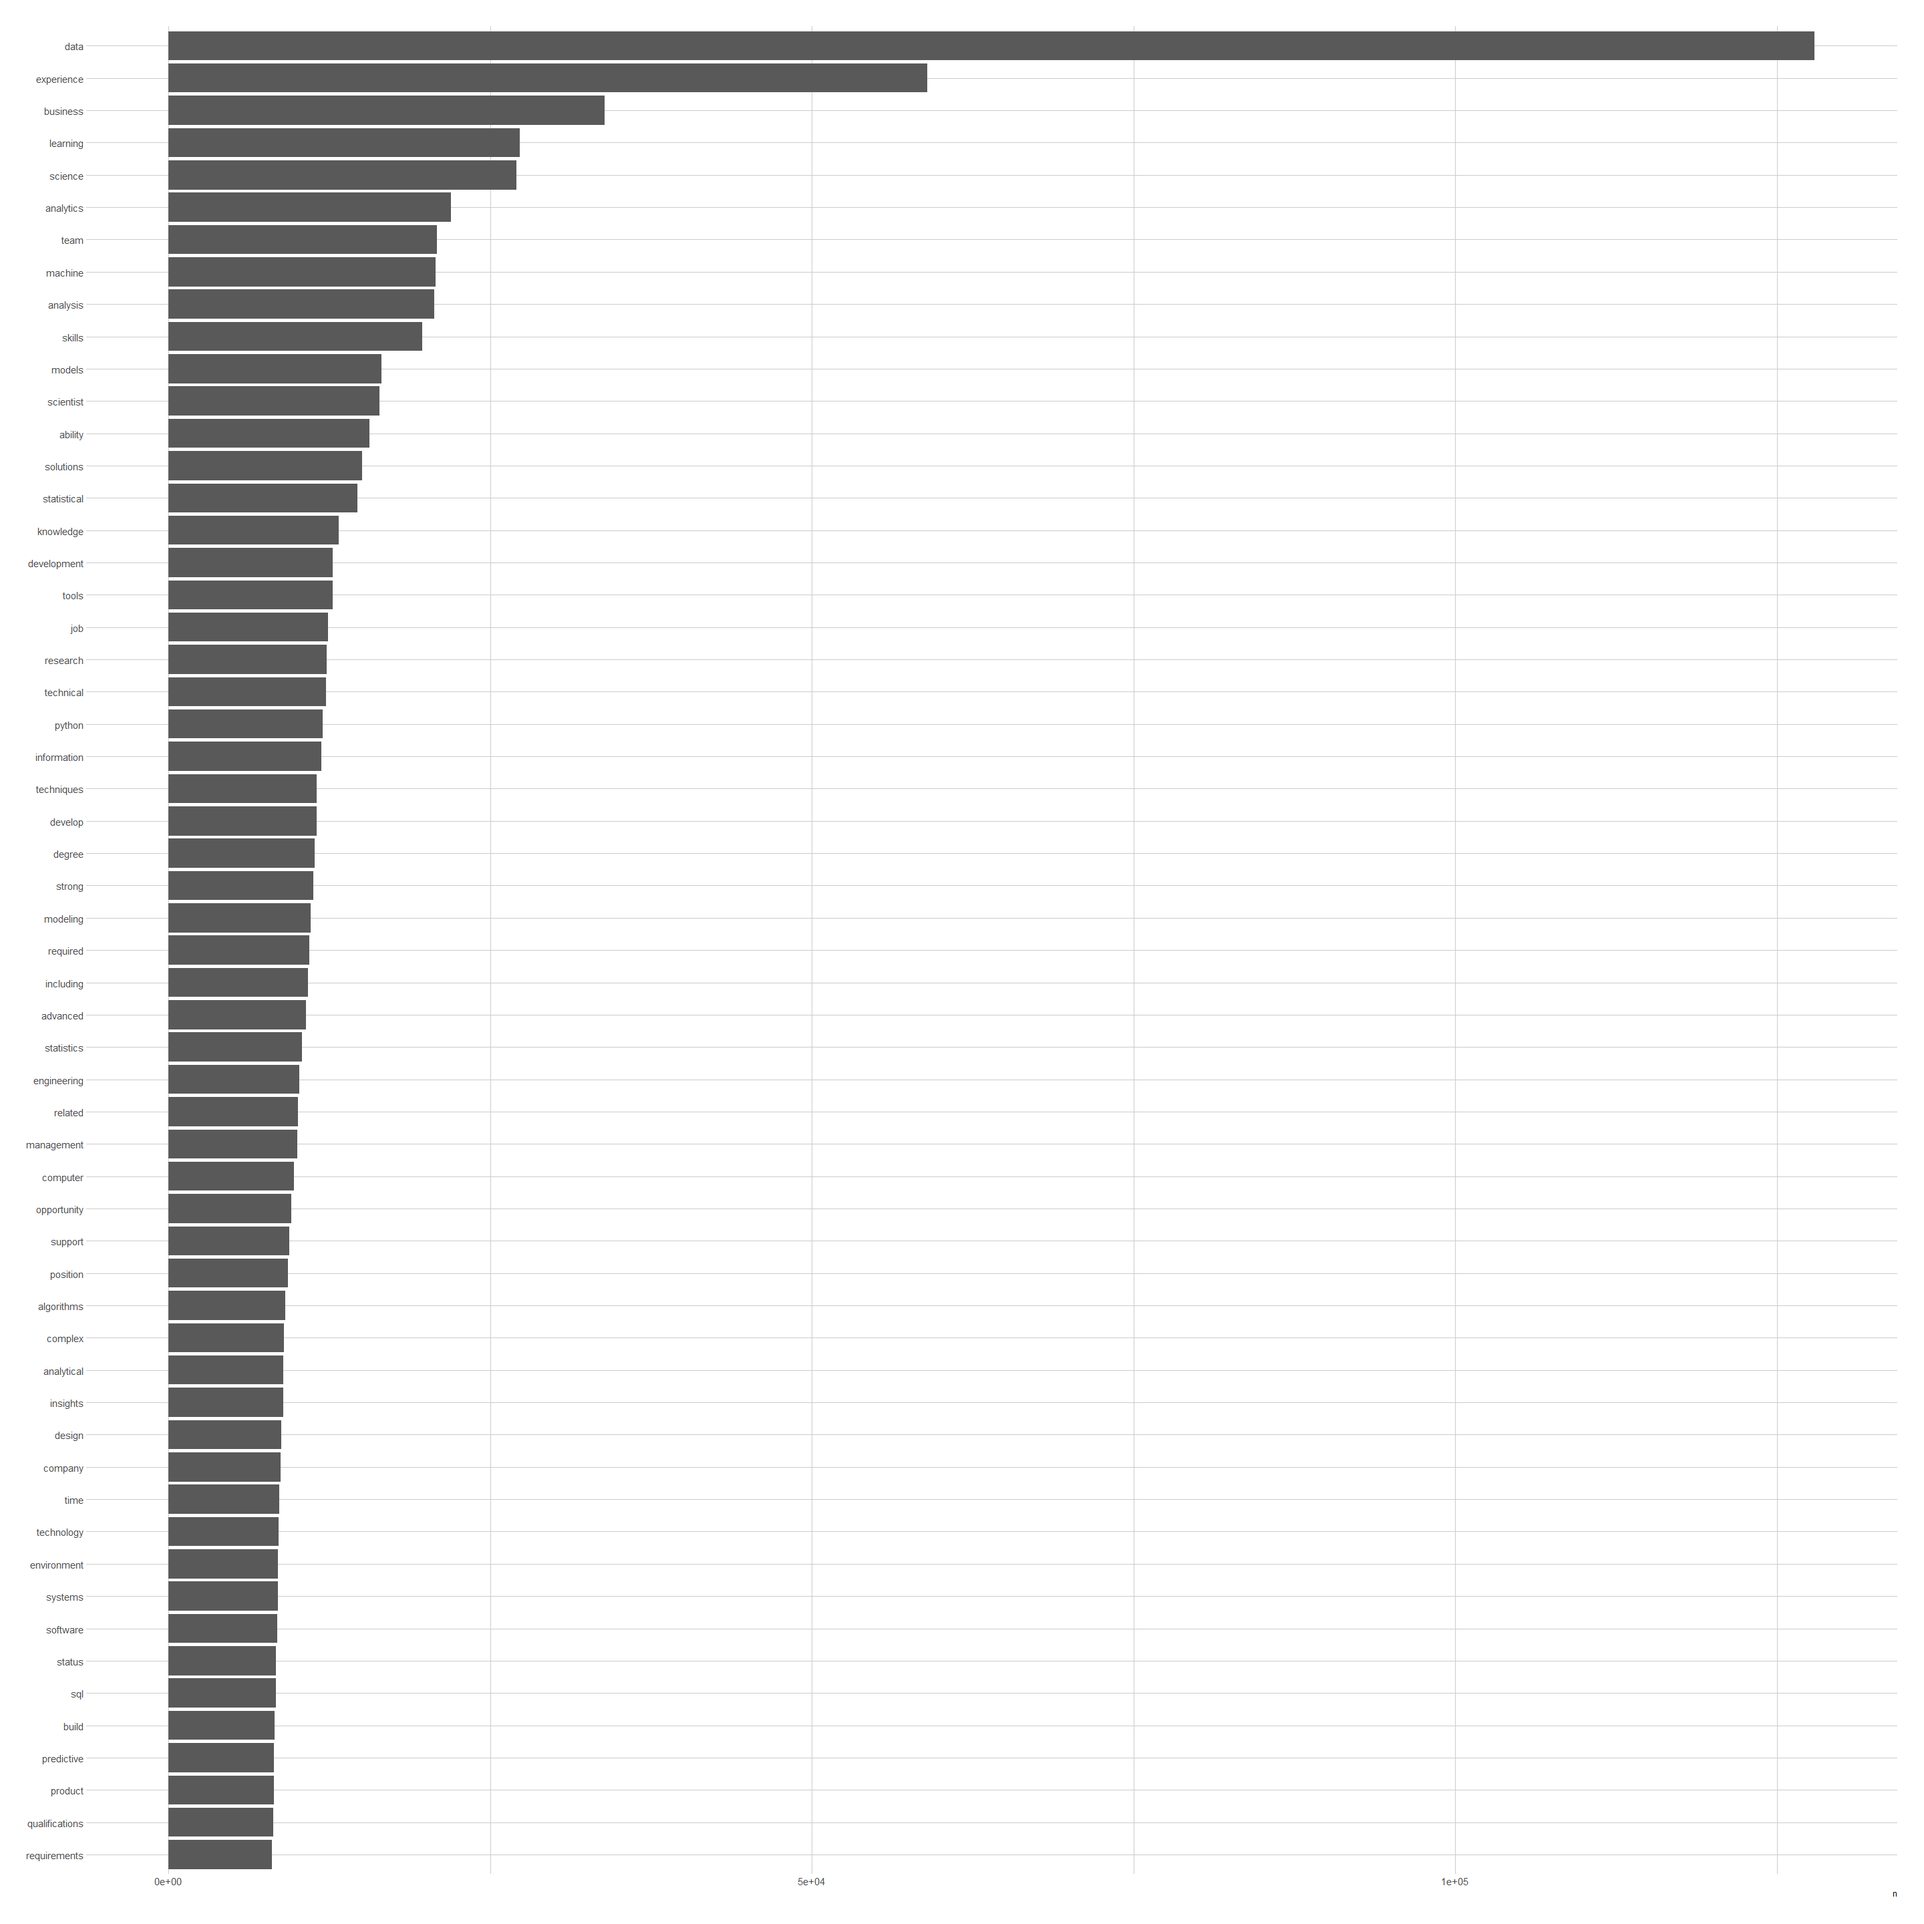
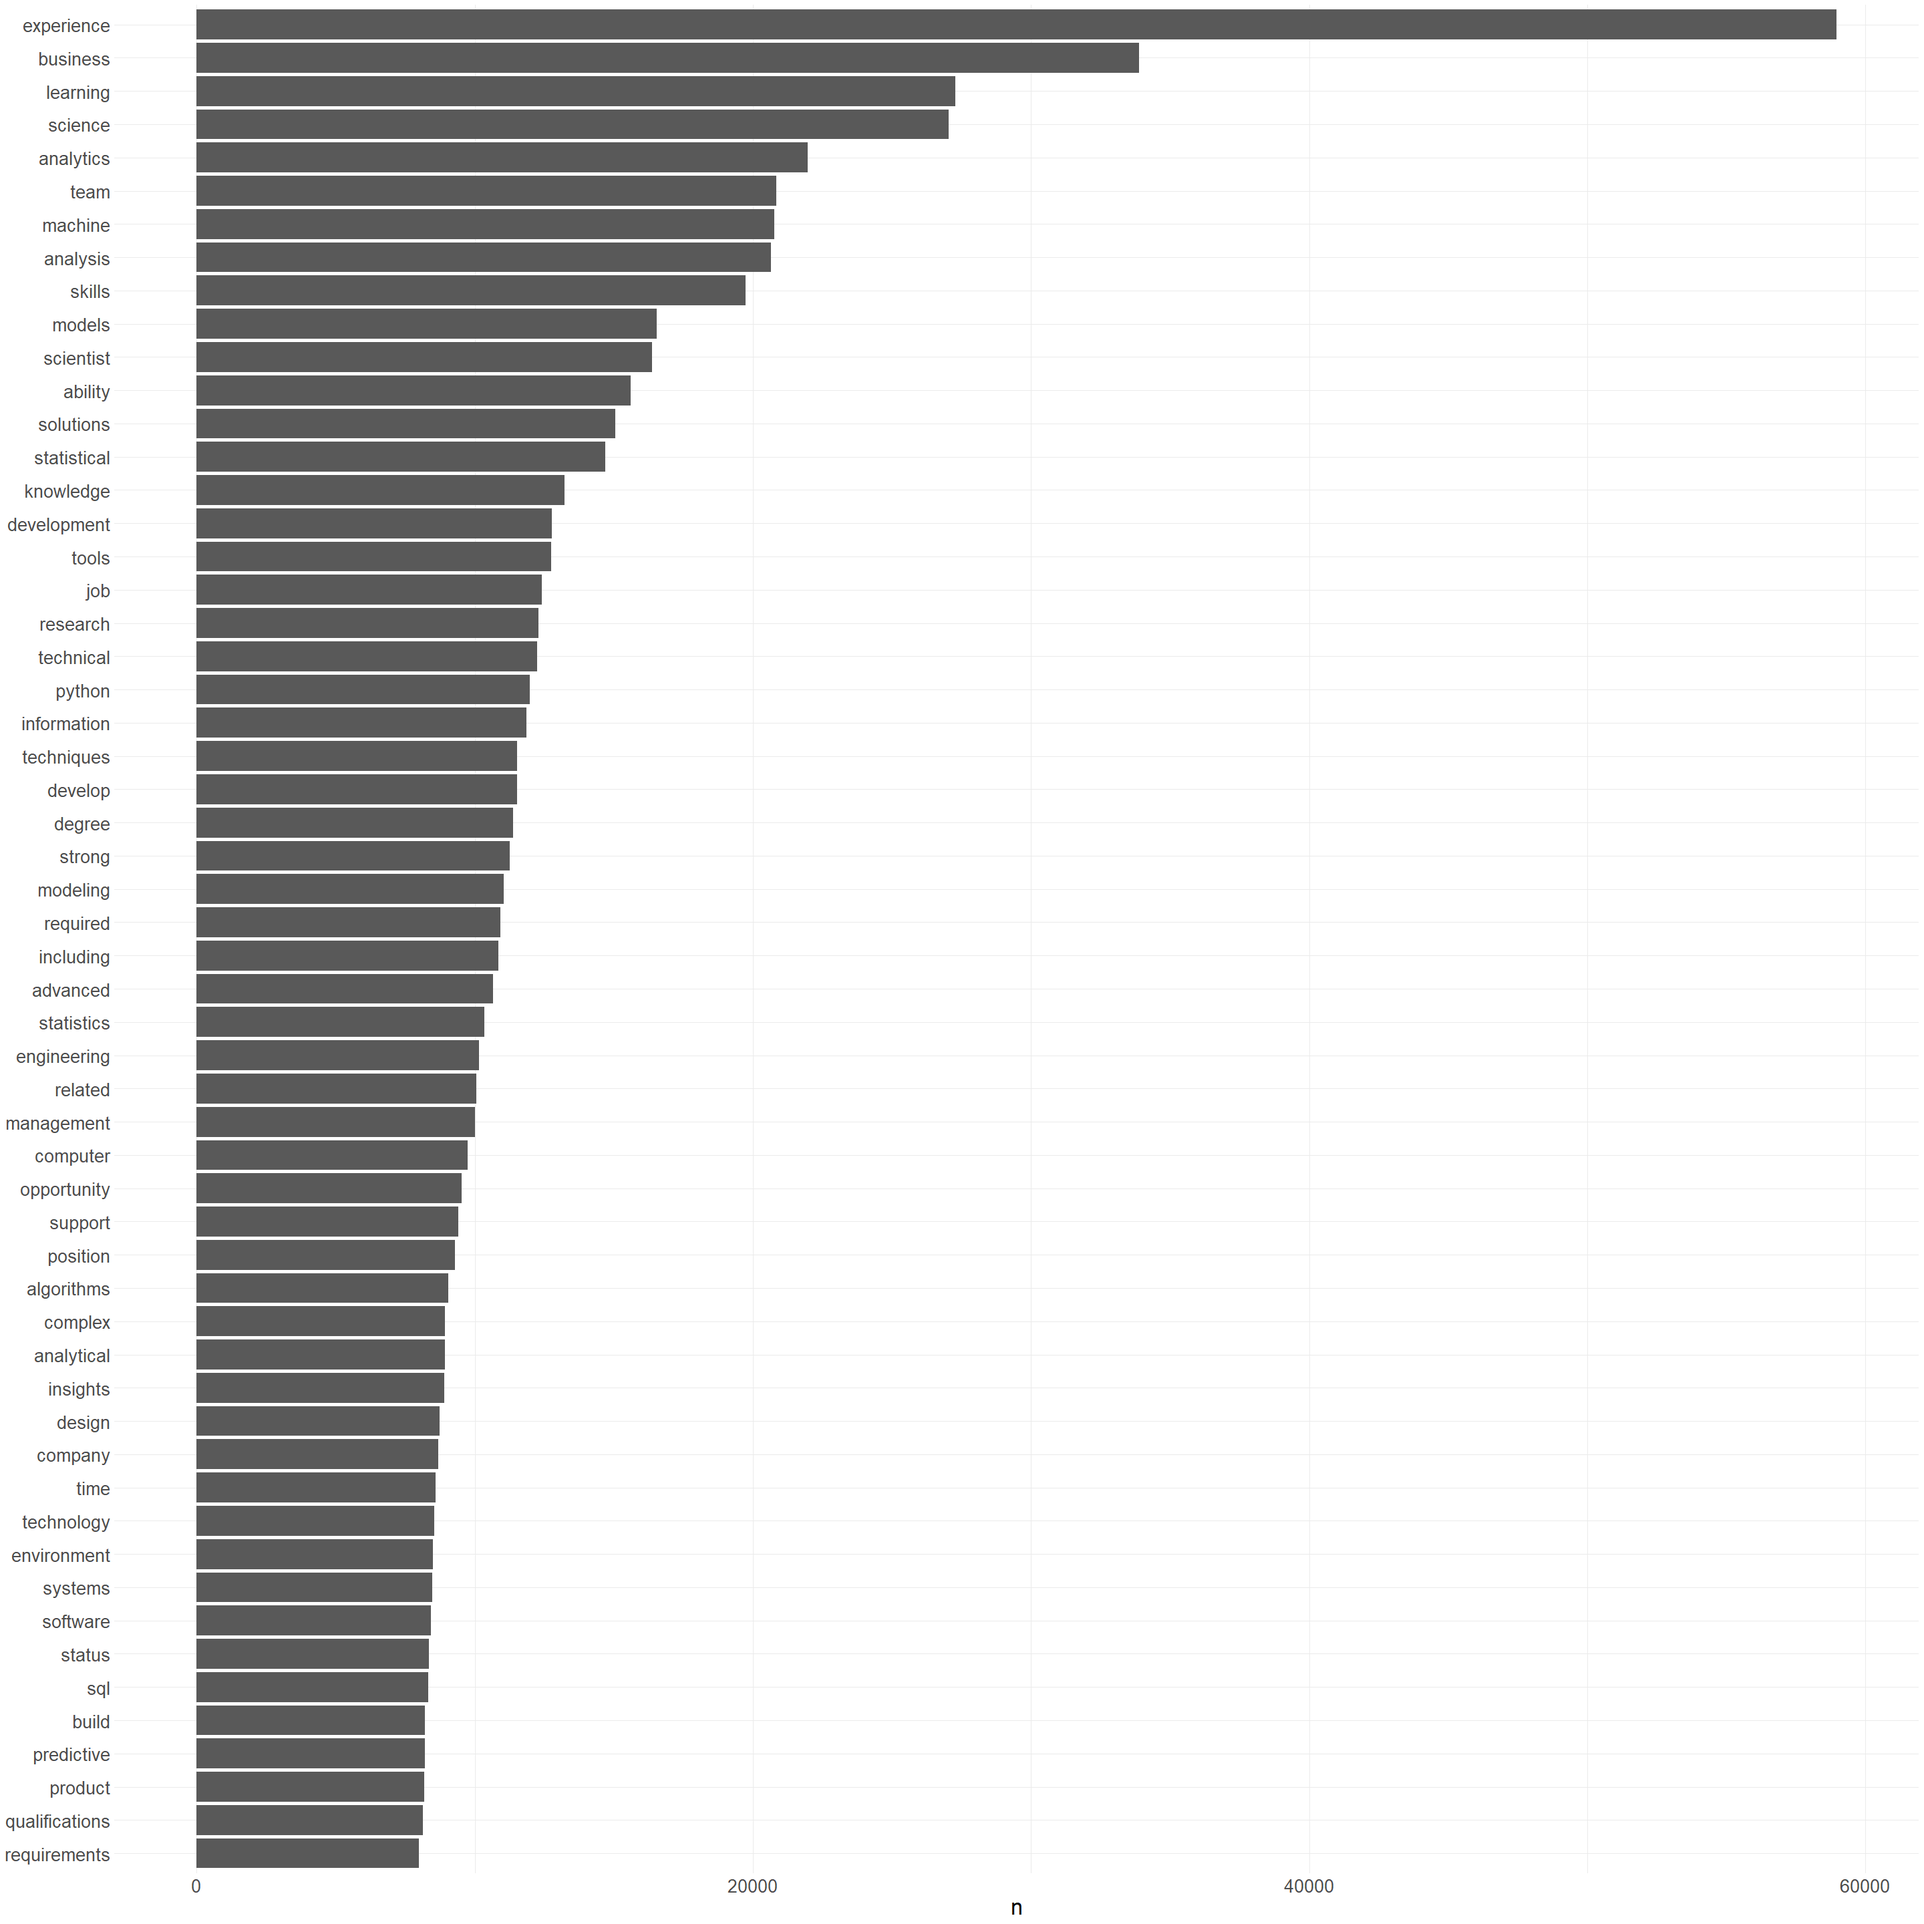
Initial commit

Changed region(s): [[0.0, 0.0, 0.9688, 0.9688]]

diff --git a/JobPostingsDataScienceAnalysis.md b/JobPostingsDataScienceAnalysis.md
@@ -1818,16 +1818,16 @@ software
 
 ``` r
 library(ggplot2)
-library(hrbrthemes)
 
 job_description_tokenized_counted %>%
-  filter(n > 8000) %>%
+  filter(n, between(n, 8000, 100000)) %>%
   mutate(job_description_words = reorder(job_description_words, n)) %>%
   ggplot(aes(job_description_words, n)) +
   geom_col() +
   xlab(NULL) +
   coord_flip() +
-  theme_ipsum_rc()
+  theme_minimal() +
+  theme(text = element_text(size=25))
 ```
 
 ![](JobPostingsDataScienceAnalysis_files/figure-gfm/unnamed-chunk-12-1.png)<!-- -->
